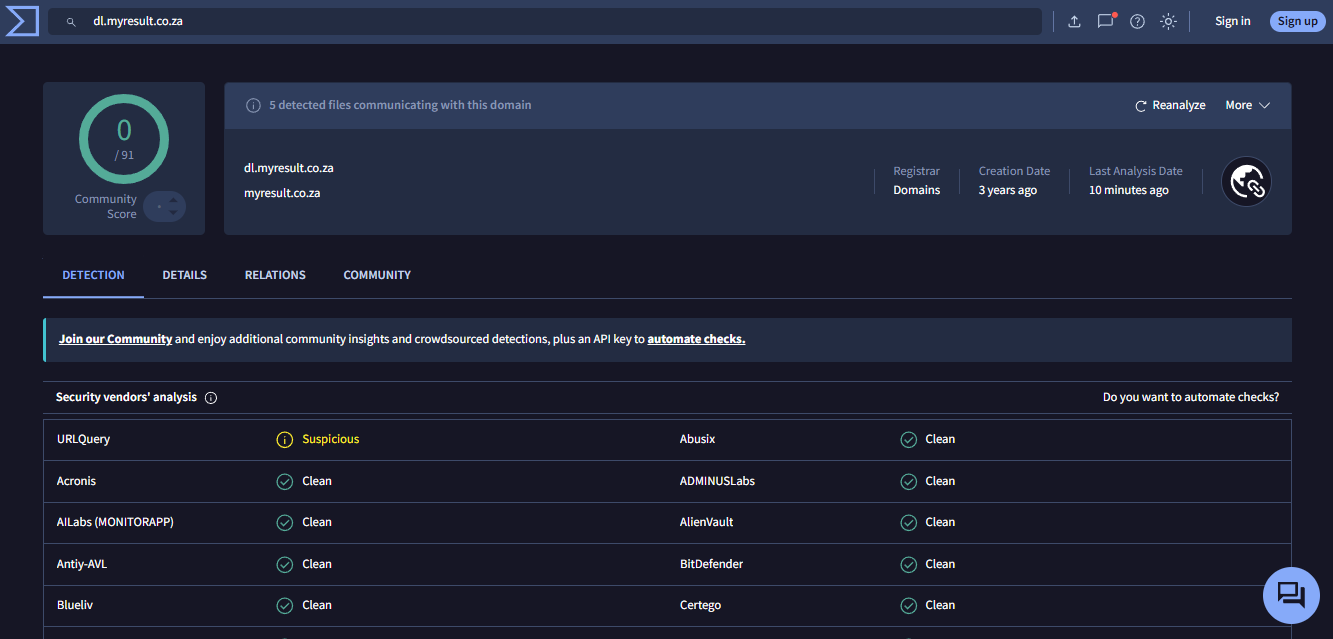
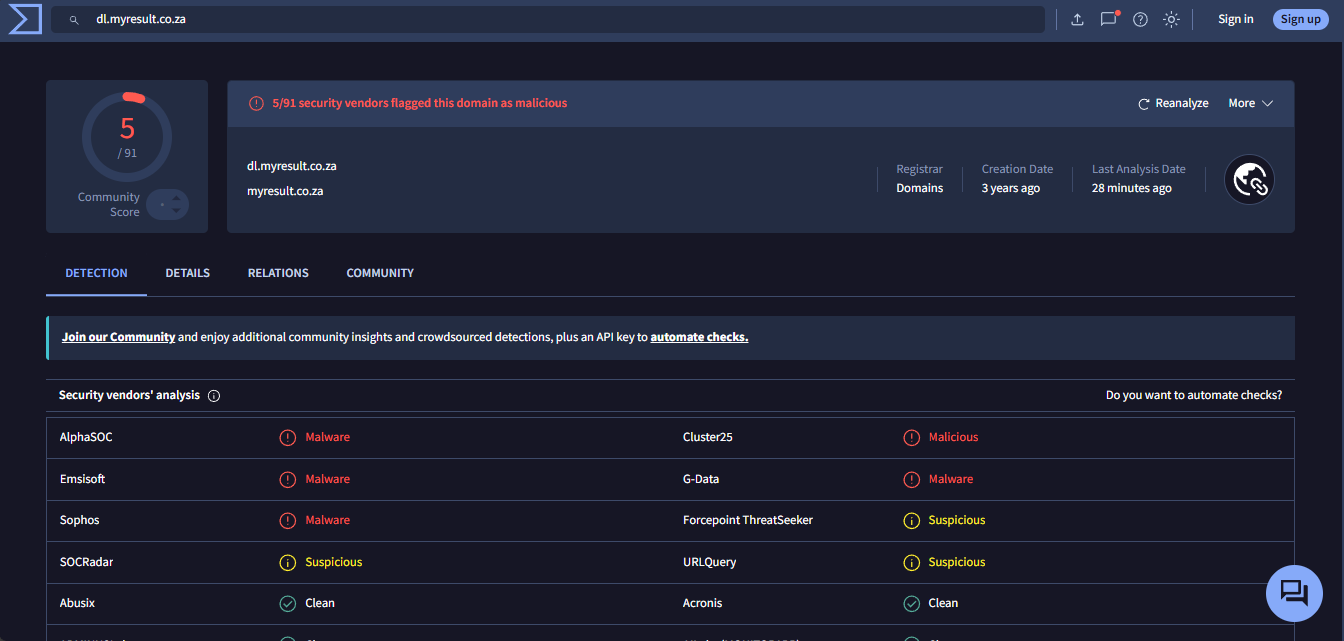
commit

diff --git a/04-Threat-Intelligence/case-01-Domain-analysis/README.md b/04-Threat-Intelligence/case-01-Domain-analysis/README.md
@@ -1,7 +1,7 @@
 # Case 01 — Domain Analysis: dl.myresult.co.za
 
 ## Summary
-During the Wireshark malware traffic investigation, a system was observed downloading files from dl.myresult.co.za over HTTP. The domain was submitted to VirusTotal for reputation analysis; however, 0 out of 94 security vendors flagged it as malicious. Further investigation revealed that the domain had been associated with malware distribution and was used to host or distribute malicious files. This finding confirmed that the suspicious download activity observed in the network capture was consistent with known malware distribution activity.   
+During the Wireshark malware traffic investigation, a system was observed downloading files from dl.myresult.co.za over HTTP. The domain was submitted to VirusTotal for reputation analysis; however, 5 out of 91 security vendors flagged it as malicious. Further investigation revealed that the domain had been associated with malware distribution and was used to host or distribute malicious files. This finding confirmed that the suspicious download activity observed in the network capture was consistent with known malware distribution activity.   
 
 ## Scenario
 During a Wireshark investigation, a host was found downloading files from dl.myresult.co.za over HTTP. The domain was considered suspicious due to the observed file-download activity.  
@@ -27,11 +27,11 @@ The domain dl.myresult.co.za was submitted to VirusTotal for reputation analysis
 
 What VirusTotal does: VirusTotal checks the submitted indicator against over 90 security vendors simultaneously and returns a verdict from each one. A high number of detections confirms malicious activity. Zero detections does not automatically mean the indicator is safe — it means it has not been widely reported yet.  
 
-Finding: 0 out of 94 security vendors flagged dl.myresult.co.za as malicious. Only 1 out of 94 security vendors flagged it as suspecious. The last analysis was performed approximately 10 minutes ago before this investigation.  
+Finding: 5 out of 91 security vendors flagged dl.myresult.co.za as malicious. 3 out of 91 security vendors flagged it as suspecious. The last analysis was performed approximately 28 minutes before this investigation.  
 
 The screenshot below shows the full detection results across all 94 vendors with every vendor returning a clean verdict.   
 
-![Screenshot]()
+![Screenshot](https://github.com/s-anjeev/soc-projects/blob/main/04-Threat-Intelligence/case-01-Domain-analysis/image/virustotal-1.png)
 
 ## Step 2 — Investigate Further Using the Relations Tab
 A clean VirusTotal result does not end the investigation. The Relations tab was checked for additional context.  
@@ -41,7 +41,7 @@ Communicating files indicate observed network communication between a file and t
 
 This provides strong evidence that the domain is involved in malware distribution.   
 
-![Screenshot]()
+![Screenshot](https://github.com/s-anjeev/soc-projects/blob/main/04-Threat-Intelligence/case-01-Domain-analysis/image/virustotal-2.png)
 
 
 ##  Step 3 — Submit Domain to URLHouse
@@ -51,5 +51,37 @@ For further clarification and confirmation, the domain was submitted to URLhaus.
 
 The screenshot below shows the URLHouse scan results.   
 
-![Screenshot]()
+![Screenshot](https://github.com/s-anjeev/soc-projects/blob/main/04-Threat-Intelligence/case-01-Domain-analysis/image/url-hause.png)
 
+
+## Findings Summary
+
+| **Field** | **Details** |
+|---|---|
+| **IOC** | `dl.myresult.co.za` |
+| **IOC Type** | Domain |
+| **VirusTotal Detections** | 5 / 91 (malicious)|
+| **VirusTotal Detections** | 3 / 91 (malicsuspeciousious)|
+| **Context Found** | Associated with malware distribution |
+|**IP** | 82.165.179.225|
+| **Associated Files** | `.lnk`, `.vbs`, `.bat`, `.zip` |
+| **URLhaus Finding** | Domain associated with malicious file distribution |
+| **Behaviour Observed** | Files downloaded from the domain over HTTP |
+| **Overall Assessment** | **Suspicious — strong evidence of association with malware distribution** |   
+
+## MITRE ATT&CK Mapping
+
+| **Technique** | **MITRE ID** | **Reasoning** |
+|---|---|---|
+| **Application Layer Protocol: Web Protocols** | **T1071.001** | The host communicated with `dl.myresult.co.za` using HTTP. |
+| **Ingress Tool Transfer** | **T1105** | The host downloaded files from the external domain, consistent with the transfer of potentially malicious files. |   
+
+## Conclusion
+The investigation identified dl.myresult.co.za as a suspicious domain associated with malware distribution. VirusTotal reported 5/91 detections, further CTI enrichment through VirusTotal Relations and URLhaus revealed associations with multiple malicious files. The observed HTTP file downloads were consistent with the domain's known malicious activity, providing strong evidence that the domain was involved in malware delivery.   
+
+## Key Takeaways
+- IOC enrichment using multiple CTI sources provides additional context.
+- VirusTotal Relations can reveal files associated with a suspicious domain.
+- URLhaus can provide valuable information about domains involved in malware distribution.
+- Multiple sources should be correlated before making a final assessment.
+- Threat intelligence helps turn a suspicious IOC into actionable security information.

diff --git a/04-Threat-Intelligence/README.md b/04-Threat-Intelligence/README.md
@@ -29,7 +29,7 @@ Without threat intelligence, a SOC may see an IP address, domain, hash, or suspi
 # Cases
 ## Case 01 — Domain Analysis
 The domain dl.myresult.co.za, identified during Wireshark traffic analysis, was submitted to VirusTotal for reputation analysis and further contextual enrichment.  
-- [View case 1]()
+- [View case 1](https://github.com/s-anjeev/soc-projects/tree/main/04-Threat-Intelligence/case-01-Domain-analysis)
 
 ## Case 02 — IP Reputation Analysis
 - [View case 2]()
